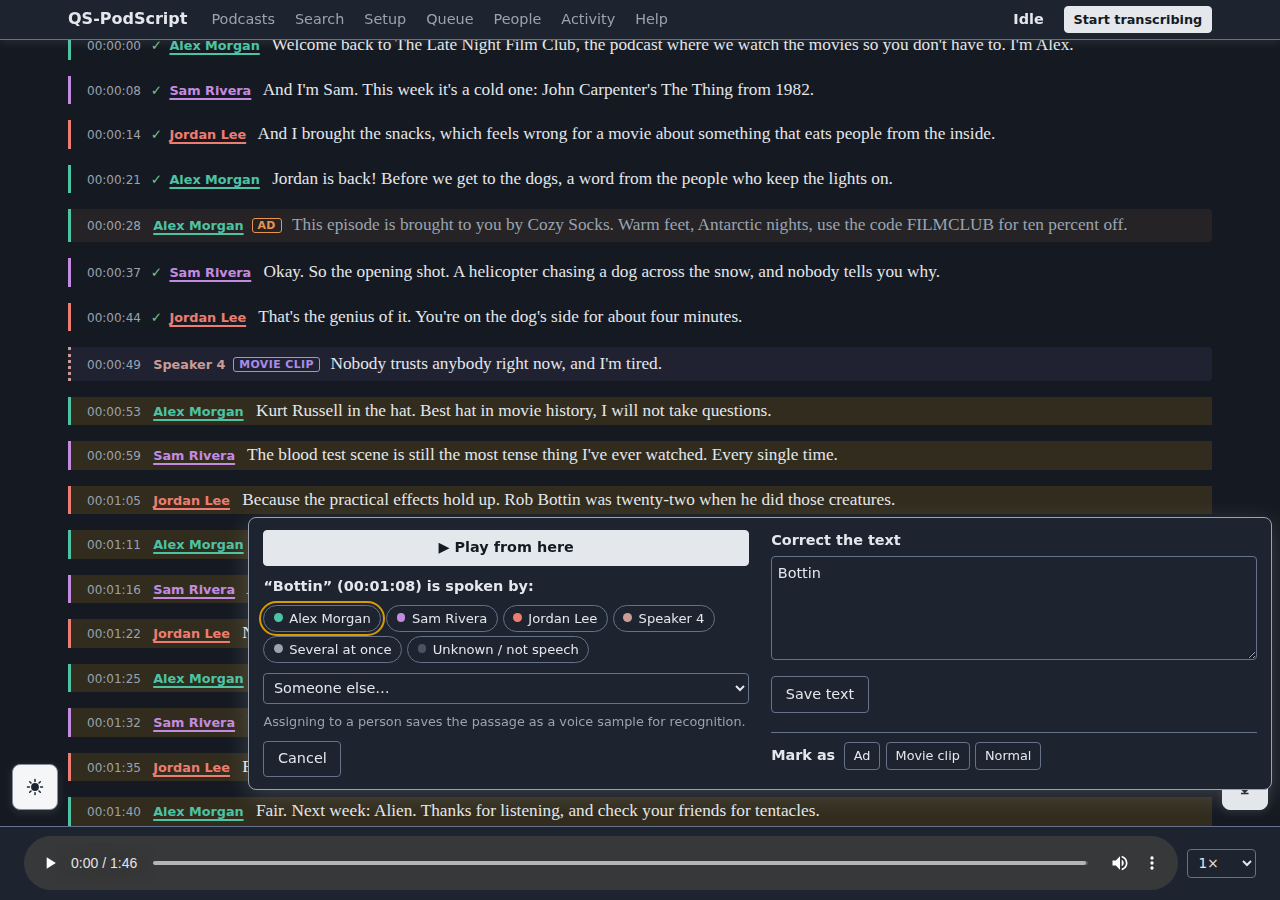
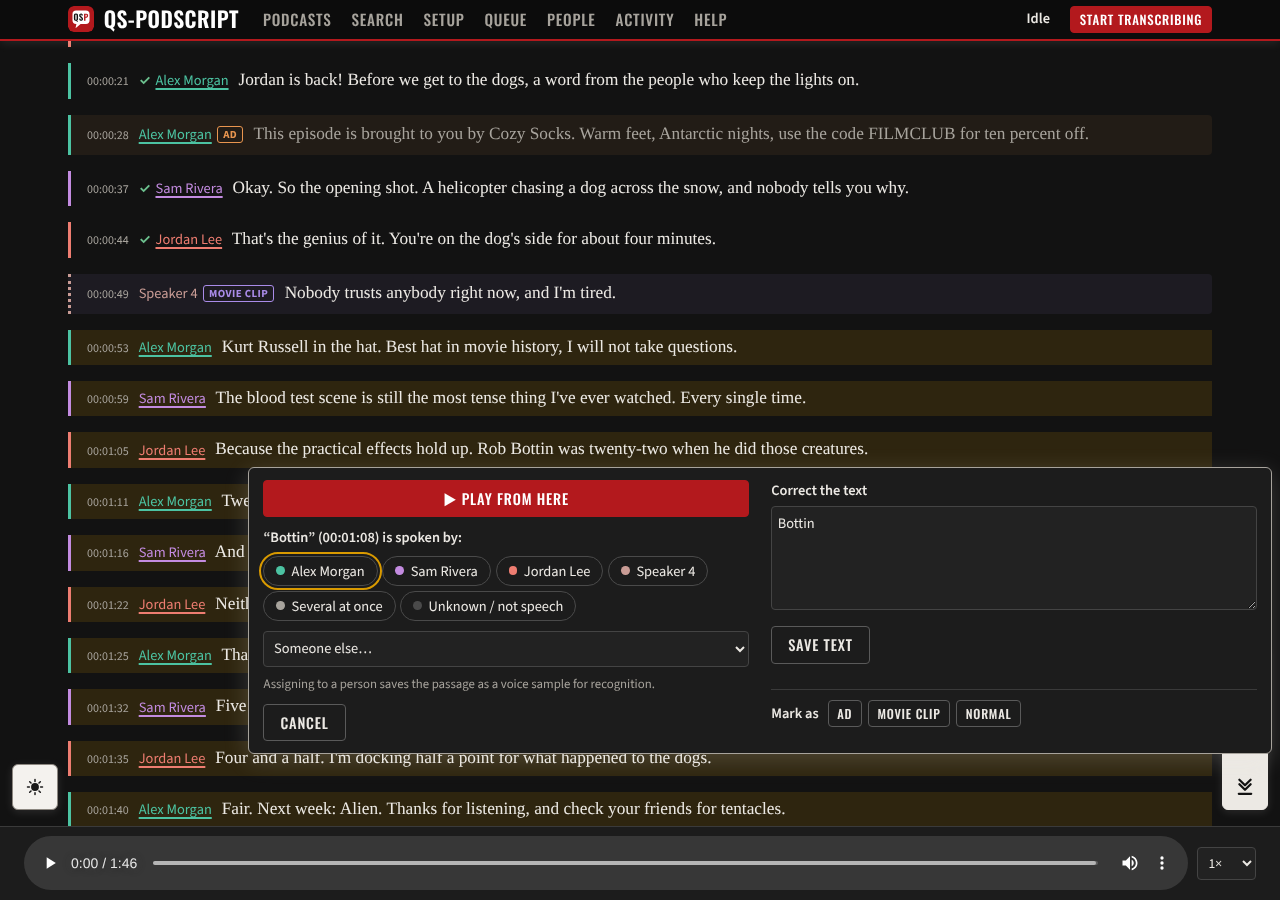
v0.34.4: Unknown/[crosstalk] lanes clickable; new screenshots and social preview; README and manual updated

diff --git a/web/templates/help.html b/web/templates/help.html
@@ -74,7 +74,7 @@
   <li><b>Transcribe this podcast</b> on a podcast page works only through that podcast.</li>
   <li><b>Check for new episodes</b> reloads the feed without transcribing.</li>
 </ul>
-<p><b>How long does it take?</b> With a graphics card a 90-minute episode usually takes 10–25 minutes (transcription plus speaker detection). Without one it can take as long as the episode or longer. The <a href="/setup">Setup</a> page shows whether your graphics card is used.</p>
+<p><b>How long does it take?</b> With a graphics card the transcription of a 90-minute episode takes a few minutes. Speaker detection runs on the processor and can take longer than that – up to an hour for a long episode; on Linux with an NVIDIA card it can run on the graphics card too (installer option <code>--gpu-speakers</code>, see <a href="#settings">Settings</a>), then a whole episode usually takes 10–20 minutes. Without a graphics card it all can take as long as the episode or longer. The <a href="/setup">Setup</a> page shows whether your graphics card is used.</p>
 <p>The podcast page lists all episodes with filters for <i>Done</i>, <i>Waiting</i> and <i>Failed</i>. Click an episode title to open its transcript.</p>
 <p><b>The queue:</b> <a href="/queue">Queue</a> in the menu lists the waiting episodes in the order they are transcribed. <b>Drag</b> an episode by its handle ⠿ to any place (hold the mouse button, move, let go) – the numbers follow and the new order is saved at once. <i>To the top</i> makes one next, <i>To the end</i> moves it behind all others, <i>Take out</i> removes it from the queue without deleting anything – it stays on its podcast page under <i>Not queued</i> (also <i>Don't transcribe</i> right in the podcast's episode list) and comes back with <i>Transcribe now</i> or <i>Put all back</i>. Taking out an episode that was queued to be transcribed again keeps its current version.</p>
 <p><b>One podcast first:</b> on a podcast's page, <i>Transcribe this podcast next</i> puts all its waiting episodes at the front of the queue – also while transcribing is already running (they follow the current episode). If nothing is running, it starts. The other podcasts follow afterwards. <i>✓ Goes first · normal order</i> undoes it.</p>
@@ -127,7 +127,7 @@
 
 <h3>Putting names on voices</h3>
 <ul>
-  <li><b>A whole voice:</b> click the voice's name in the lanes at the top (for example "Speaker 3") and choose who it is – everything that voice said gets the name. Not sure? <i>Check line by line →</i> in that menu opens a page with <b>everything that voice said</b>, each line with the two lines before and after it for context, line by line like in <i>Look Who's Talking Now</i>: click a time to hear that line, pick the right person where it's wrong, then <i>Save</i> – all lines on the page count as checked (40 per page). If they are all the same person, <i>All of them are …</i> names every line at once (or creates a new person); for an unnamed voice that also saves a voice sample.</li>
+  <li><b>A whole voice:</b> click the voice's name in the lanes at the top (for example "Speaker 3") and choose who it is – everything that voice said gets the name. Not sure? <i>Check line by line →</i> in that menu opens a page with <b>everything that voice said</b>, each line with the two lines before and after it for context, line by line like in <i>Look Who's Talking Now</i>: click a time to hear that line, pick the right person where it's wrong, then <i>Save</i> – all lines on the page count as checked (40 per page). If they are all the same person, <i>All of them are …</i> names every line at once (or creates a new person); for an unnamed voice that also saves a voice sample. <i>Unknown</i> and <i>[crosstalk]</i> in the lanes work the same way: their lines go to the person you pick (without a voice sample – these lines can be music or several people at once).</li>
   <li><b>One paragraph:</b> click the speaker name at the start of the paragraph.</li>
   <li><b>Exactly some words:</b> select them with the mouse (also across paragraphs) – a menu opens.</li>
   <li><b>One word:</b> double-click it.</li>

diff --git a/docs/dev/screenshots.js b/docs/dev/screenshots.js
@@ -1,0 +1,61 @@
+// README screenshots (docs/screenshots/*.png) from the demo data.
+// 1. Demo data + placeholder tools, so Setup counts as done (see HANDOFF.md):
+//      QSPS_DEMO_HOME=/tmp/shots go test -count=1 -tags sqlite_fts5 -run TestMakeDemo .
+//      (plus empty files for whisper-cli, the whisper model and the speaker models)
+// 2. QSPODSCRIPT_HOME=/tmp/shots ./qs-podscript serve --port 8398 --no-browser
+// 3. NODE_PATH=$(npm root -g) node docs/dev/screenshots.js [out-dir]
+// The look is switched to Classic for one picture and back to QuickSack.
+const { chromium } = require('playwright');
+const base = process.env.BASE || 'http://127.0.0.1:8398';
+const out = process.argv[2] || 'docs/screenshots';
+require('fs').mkdirSync(out, { recursive: true });
+
+async function setLook(look) {
+  await fetch(base + '/settings/look', {
+    method: 'POST', redirect: 'manual',
+    headers: { 'Content-Type': 'application/x-www-form-urlencoded', Origin: base },
+    body: 'look=' + look,
+  });
+}
+
+(async () => {
+  const b = await chromium.launch();
+  const page = async (opts = {}) => {
+    const ctx = await b.newContext({ viewport: { width: 1280, height: 900 }, colorScheme: 'dark', ...opts });
+    return ctx.newPage();
+  };
+  const settle = (p) => p.evaluate(() => document.fonts.ready).then(() => p.waitForTimeout(400));
+  const shot = async (p, name, opts = {}) => { await settle(p); await p.screenshot({ path: `${out}/${name}.png`, ...opts }); console.log(name); };
+
+  await setLook('quicksack');
+  let p = await page();
+  await p.goto(base + '/'); await shot(p, 'podcasts');
+  await p.goto(base + '/episodes/1'); await shot(p, 'episode');
+  await p.goto(base + '/feeds/1'); await shot(p, 'podcast');
+  await p.goto(base + '/search?q=thing'); await shot(p, 'search');
+  await p.goto(base + '/feeds/1/quiz'); await shot(p, 'look-whos-talking');
+  await p.goto(base + '/setup#speakers'); await p.evaluate(() => document.getElementById('speakers').scrollIntoView()); await shot(p, 'setup');
+
+  // correcting: double-click a word in the transcript
+  await p.goto(base + '/episodes/1'); await settle(p);
+  const w = p.locator('#transcript .text span', { hasText: 'Bottin' }).first();
+  await w.scrollIntoViewIfNeeded(); await p.evaluate(() => window.scrollBy(0, 250));
+  await w.dblclick(); await p.waitForTimeout(500);
+  await shot(p, 'correction');
+
+  // bright mode
+  p = await page({ colorScheme: 'light' });
+  await p.goto(base + '/episodes/1'); await shot(p, 'episode-light');
+
+  // phone
+  p = await page({ viewport: { width: 390, height: 844 }, deviceScaleFactor: 1, isMobile: true, hasTouch: true });
+  await p.goto(base + '/episodes/1'); await shot(p, 'phone');
+
+  // the other look
+  await setLook('classic');
+  p = await page();
+  await p.goto(base + '/episodes/1'); await shot(p, 'episode-classic');
+  await setLook('quicksack');
+
+  await b.close();
+})();

diff --git a/web/templates/episode.html b/web/templates/episode.html
@@ -93,7 +93,7 @@
   <section class="lanes" id="lanes" data-total="{{$.Data.TotalMs}}" aria-label="Who speaks when">
     {{range .}}
     <div class="lane">
-      {{if and (ge .Label 0) ($.CanEdit $e.FeedID)}}<a class="lane-name {{spClass .Label}}" data-label="{{.Label}}" href="/episodes/{{$e.ID}}/voice/{{.Label}}?v={{$.Data.VersionID}}" title="All lines of {{label .Label}}: check them one by one, or name them all at once">{{label .Label}} <small>{{.Share}}%</small></a>
+      {{if and (ge .Label -2) ($.CanEdit $e.FeedID)}}<a class="lane-name {{spClass .Label}}" data-label="{{.Label}}" href="/episodes/{{$e.ID}}/voice/{{.Label}}?v={{$.Data.VersionID}}" title="All lines of {{label .Label}}: check them one by one, or name them all at once">{{label .Label}} <small>{{.Share}}%</small></a>
       {{else}}<span class="lane-name {{spClass .Label}}">{{label .Label}} <small>{{.Share}}%</small></span>{{end}}
       <div class="lane-track {{spClass .Label}}"><svg class="lane-blocks" viewBox="0 0 100 1" preserveAspectRatio="none" aria-hidden="true">{{range .Blocks}}<rect x="{{printf "%.3f" .Left}}" width="{{printf "%.3f" .Width}}" height="1"/>{{end}}</svg><b class="playhead" hidden></b></div>
     </div>

diff --git a/web/static/app.js b/web/static/app.js
@@ -271,7 +271,14 @@
     $("a-from").value = opts.from != null ? opts.from : "";
     const sel = $("a-label");
     sel.value = "";
-    menu.querySelectorAll("[data-label]").forEach((o) => { o.hidden = opts.from != null && o.dataset.label === String(opts.from); });
+    // the voice's own button is hidden ("Unknown" / "Several at once" are -1 / -2 in the lanes, u / x on the buttons)
+    const self = opts.from != null ? ({ "-1": "u", "-2": "x" }[String(opts.from)] || String(opts.from)) : null;
+    menu.querySelectorAll("[data-label], button[name=label][value=u], button[name=label][value=x]").forEach((o) => {
+      o.hidden = self !== null && (o.dataset.label || o.value) === self;
+    });
+    // lines of "Unknown" / "[crosstalk]" are not saved as voice samples (music, several people)
+    const note = menu.querySelector(".assign-note");
+    if (note) note.hidden = opts.from != null && Number(opts.from) < 0;
     if ($("a-submit")) $("a-submit").hidden = true; // chips send at once; "Assign" is for the list
     $("a-name").hidden = true;
     $("a-name").required = false;

diff --git a/web.go b/web.go
@@ -1725,8 +1725,25 @@ func (s *Server) handleCorrectionAdd(w http.ResponseWriter, r *http.Request) {
 		anchor = c.StartMs
 	case "merge":
 		c.From, err = strconv.Atoi(r.FormValue("from"))
-		if err != nil || c.From < 0 || c.From == c.Label {
+		if err != nil || c.From < labelCrosstalk || c.From == c.Label {
 			fail("Choose a different speaker.")
+			return
+		}
+		if c.From < 0 {
+			// "Unknown" and "[crosstalk]" are no voice of their own (no
+			// cluster to rename): give each of their lines to the chosen
+			// speaker with a passage correction. No voice samples - these
+			// lines can be music or several people at once.
+			n, err := s.relabelLines(v, corr, c.From, c.Label, c.UserID)
+			if err != nil {
+				fail(err.Error())
+				return
+			}
+			if n == 0 {
+				fail("No lines of " + labelName(c.From) + " left in this version.")
+				return
+			}
+			http.Redirect(w, r, to, http.StatusSeeOther)
 			return
 		}
 	default:
@@ -1755,6 +1772,35 @@ func (s *Server) handleCorrectionAdd(w http.ResponseWriter, r *http.Request) {
 		dest += fmt.Sprintf("#at%d", anchor)
 	}
 	http.Redirect(w, r, dest, http.StatusSeeOther)
+}
+
+// relabelLines gives every line that currently shows label from (Unknown or
+// crosstalk) to label to, one passage correction per line; returns how many.
+func (s *Server) relabelLines(v Version, corr []Correction, from, to int, userID int64) (int, error) {
+	segs, toks, turns, err := s.st.LoadResults(v.ID)
+	if err != nil {
+		return 0, err
+	}
+	n := 0
+	for _, c := range relabelRanges(buildUtterances(segs, toks, turns, corr), from, to) {
+		c.UserID = userID
+		if _, err := s.st.AddCorrectionID(v.ID, c); err != nil {
+			return n, err
+		}
+		n++
+	}
+	return n, nil
+}
+
+// relabelRanges: one passage correction per line labelled from, giving it to.
+func relabelRanges(us []Utterance, from, to int) []Correction {
+	var out []Correction
+	for _, u := range us {
+		if u.Label == from && u.EndMs > u.StartMs {
+			out = append(out, Correction{Kind: "range", StartMs: u.StartMs, EndMs: u.EndMs, Label: to})
+		}
+	}
+	return out
 }
 
 func (s *Server) handleVoiceMerge(w http.ResponseWriter, r *http.Request) {

diff --git a/merge_test.go b/merge_test.go
@@ -289,3 +289,31 @@ func TestFindLoops(t *testing.T) {
 		t.Fatalf("short words flagged: %d", n) // single-word repeats are normal speech
 	}
 }
+
+// "Unknown" / "[crosstalk]" in the lanes can be given to someone: one passage
+// correction per line, on top of the earlier "unknown" marking.
+func TestRelabelUnknownLines(t *testing.T) {
+	turns := []Turn{{0, 4000, 0}, {4000, 8000, 2}, {8000, 12000, 1}}
+	segs := []Segment{{0, 0, 12000, "x"}}
+	var toks []Token
+	for i, w := range []string{" a", " b", " c", " d", " e", " f", " g", " h", " i", " j", " k", " l"} {
+		toks = append(toks, tok(0, i, int64(i)*1000, int64(i+1)*1000, w))
+	}
+	corr := []Correction{
+		{Kind: "range", StartMs: 0, EndMs: 2000, Label: labelUnknown},
+		{Kind: "range", StartMs: 8000, EndMs: 10000, Label: labelUnknown},
+		{Kind: "range", StartMs: 4000, EndMs: 6000, Label: labelCrosstalk},
+	}
+	us := buildUtterances(segs, toks, turns, corr)
+	if got := linesOf(us); got != "Unknown:a b | Speaker 1:c d | [crosstalk]:e f | Speaker 3:g h | Unknown:i j | Speaker 2:k l" {
+		t.Fatalf("before: %s", got)
+	}
+	add := relabelRanges(us, labelUnknown, personLabel(7))
+	if len(add) != 2 {
+		t.Fatalf("want 2 passages, got %+v", add)
+	}
+	got := linesOf(buildUtterances(segs, toks, turns, append(corr, add...)))
+	if strings.Contains(got, "Unknown") || !strings.Contains(got, "[crosstalk]:e f") {
+		t.Fatalf("after: %s", got)
+	}
+}

diff --git a/main.go b/main.go
@@ -14,7 +14,7 @@ import (
 	"time"
 )
 
-const version = "0.34.3"
+const version = "0.34.4"
 
 const usageText = `QS-PodScript ` + version + ` - podcast transcription with speaker detection
 

diff --git a/README.md b/README.md
@@ -39,20 +39,27 @@ along and search; volunteers fix speakers and words, and their computers
   by podcast or by person; a hit opens the episode at that spot.
 - **Shared server** with public read-only pages, logins, editors per podcast,
   helpers' computers taking work one episode at a time, credits for who
-  transcribed and cleaned up what.
+  transcribed and cleaned up what. Installed with one command
+  (`./install.sh --server`); helpers can connect while installing. Proper link
+  previews (Discord, Slack …) and a sitemap for search engines.
 - **Runs offline and stays small:** one program, a local web interface, no
   accounts, nothing uploaded anywhere (except to your own server, if you use
   one). Little JavaScript – the pages work without it.
 - **Graphics cards:** NVIDIA (CUDA), AMD/Intel/NVIDIA (Vulkan) on Windows and
-  Linux, Apple Silicon (Metal) on macOS. Speaker detection on NVIDIA cards
-  on Linux (optional).
-- Two looks: Classic (bright or dark) and QuickSack.
+  Linux, Apple Silicon (Metal) on macOS. Speaker detection can run on an
+  NVIDIA card too (Linux, optional: `./install.sh --gpu-speakers`) – around
+  ten times faster than on the processor in a first test.
+- Two looks, each bright or dark: QuickSack (the default) and Classic.
+  Works on phones too.
 
 | | |
 |---|---|
-| ![Podcasts](docs/screenshots/podcasts.png) | ![Search](docs/screenshots/search.png) |
-| ![Correcting](docs/screenshots/correction.png) | ![Look Who's Talking Now](docs/screenshots/look-whos-talking.png) |
-| ![Bright](docs/screenshots/episode-light.png) | ![QuickSack look](docs/screenshots/episode-quicksack.png) |
+| ![Podcasts](docs/screenshots/podcasts.png) | ![A podcast](docs/screenshots/podcast.png) |
+| ![Search](docs/screenshots/search.png) | ![Correcting](docs/screenshots/correction.png) |
+| ![Look Who's Talking Now](docs/screenshots/look-whos-talking.png) | ![Setup: speaker detection](docs/screenshots/setup.png) |
+| ![Bright mode](docs/screenshots/episode-light.png) | ![Classic look](docs/screenshots/episode-classic.png) |
+
+<p align="center"><img src="docs/screenshots/phone.png" alt="On a phone" width="300"></p>
 
 ## Download
 
@@ -63,7 +70,7 @@ Each package has a `README.txt` with the details.
 | System | Package | Notes |
 |---|---|---|
 | **Windows 10/11** (x64) | `qs-podscript-…-windows-x64.zip` | Unzip, run `install.cmd` (or `qs-podscript.exe` directly). Downloads ffmpeg, whisper.cpp and the models itself. |
-| **Linux** (x64, glibc 2.35+) | `qs-podscript-…-linux-x64.tar.gz` | Unpack, run `./install.sh` – installs ffmpeg, builds a CUDA/Vulkan whisper.cpp if possible, adds a menu entry. |
+| **Linux** (x64, glibc 2.35+) | `qs-podscript-…-linux-x64.tar.gz` | Unpack, run `./install.sh` – installs ffmpeg, builds a CUDA/Vulkan whisper.cpp if possible, adds a menu entry. `--gpu-speakers`: speaker detection on an NVIDIA card. `--help` for all options. |
 | **macOS** (Apple Silicon) | `qs-podscript-…-macos-arm64.zip` | **New, not tested on a real Mac yet.** Needs `brew install ffmpeg whisper-cpp`. See the package README (Gatekeeper). |
 
 On first start, the **Setup** page downloads the speech and speaker models
@@ -71,8 +78,9 @@ On first start, the **Setup** page downloads the speech and speaker models
 top of every page.
 
 **Hardware:** a graphics card makes transcription many times faster than the
-processor alone. Speaker detection runs on the processor (on Linux optionally
-on an NVIDIA card) and can take as long as the transcription. Disk: a few GB
+processor alone. Speaker detection runs on the processor, where it can take
+as long as the transcription or longer – on Linux with an NVIDIA card
+(driver 580+) `./install.sh --gpu-speakers` moves it to the graphics card. Disk: a few GB
 for the models, plus about 11 MB per hour of audio for the listening copies.
 
 ## Shared server
@@ -107,12 +115,13 @@ your computer, **Setup → Import** on the server, restart.
 
 ## Building from source
 
-Needs Go 1.24+ and a C compiler (cgo: sherpa-onnx, SQLite).
+Needs Go 1.24+ and a C compiler (cgo: sherpa-onnx, SQLite); `build.sh` also
+uses `patchelf` and, for Windows, MinGW.
 
 ```sh
 go test -tags sqlite_fts5 ./...
 go build -tags sqlite_fts5 -o qs-podscript .     # FTS5 = search index; without the tag search falls back to LIKE
-./build.sh          # on Linux: Linux tar.gz + Windows zip (needs gcc-mingw-w64-x86-64)
+./build.sh          # on Linux: Linux tar.gz + Windows zip (needs gcc-mingw-w64-x86-64, patchelf)
 ./build-macos.sh    # on a Mac: macOS zip
 ```
 

diff --git a/DONE.md b/DONE.md
@@ -1,5 +1,31 @@
 # DONE
 
+## 2026-10-03 – v0.34.4 – screenshots and texts for the current state; "Unknown" in the lanes
+- Found by Batz: "Unknown" (and "[crosstalk]") in the speaker lanes of an
+  episode could not be clicked, so their lines could not be given to a
+  person at once. They are links now like every voice: the quick menu
+  ("Everything said by Unknown is actually: …") and "Check line by line".
+  As they are no voice of their own (lines someone marked "Unknown / not
+  speech" or "Several at once", or nobody detected), choosing a person adds
+  one passage correction per line instead of a voice rename; no voice
+  samples are saved from them. The menu hides the voice's own button and
+  the voice-sample note for them. Test for the passage logic.
+- README screenshots taken again (made-up demo podcast as before): QuickSack
+  is the default look now, with the logo, drawn scroll buttons and bright
+  mode. New: the podcast page, Setup (speaker detection), the Classic look
+  and a phone picture; the old "QuickSack" extra pictures are gone (the
+  normal ones show it now). docs/social-preview.png (GitHub's link preview)
+  in the same style.
+- docs/dev/screenshots.js takes all of them in one go from the demo data.
+- README: looks (QuickSack default, both bright or dark, phones), speaker
+  detection on the graphics card (--gpu-speakers, ~10x in a first test),
+  server install in one command, link previews, patchelf for building.
+- Manual: realistic times - transcription a few minutes with a graphics
+  card, speaker detection on the processor up to an hour for a long
+  episode, 10-20 minutes in total with --gpu-speakers.
+- Linux README: speaker detection on the graphics card with the first
+  measurement (RTX 3070, ~4 minutes for an episode of over an hour).
+
 ## 2026-10-03 – v0.34.3 – speaker detection on the graphics card really works
 - Found by Batz: "qs-podscript gpu-check" said "GPU-CHECK OK ... cpu=133ms
   gpu=133ms" - but both ran on the processor. The speaker detection library

diff --git a/TODO.md b/TODO.md
@@ -1,7 +1,7 @@
 # TODO
 
 Cleaned up 2026-09-27: only what Batz decided to keep. Order = planned order.
-Updated 2026-10-03 (v0.34.3) - see HANDOFF.md for the overall state.
+Updated 2026-10-03 (v0.34.4) - see HANDOFF.md for the overall state.
 
 ## Next up (open points as of v0.31.2)
 - [ ] Batz: look at the episode page, quiz and voice page on a real phone
@@ -30,8 +30,8 @@ Updated 2026-10-03 (v0.34.3) - see HANDOFF.md for the overall state.
 ## GitHub (v0.29.0)
 - [x] Repo baumbaTz/qs-podscript, Vulkan whisper-cli.exe deps release,
       release workflow builds Linux/Windows/macOS/source on a v* tag.
-- [ ] Screenshots in docs/screenshots are from test data - replace with real
-      ones (Film Sack etc.) when convenient.
+- [x] Screenshots redone for 0.34.4 (QuickSack, logo) - still the made-up
+      demo podcast; real ones (Film Sack etc.) only if wanted.
 
 ## Ongoing
 - [ ] Windows packages: compiled with every build (catches breakage), but only
